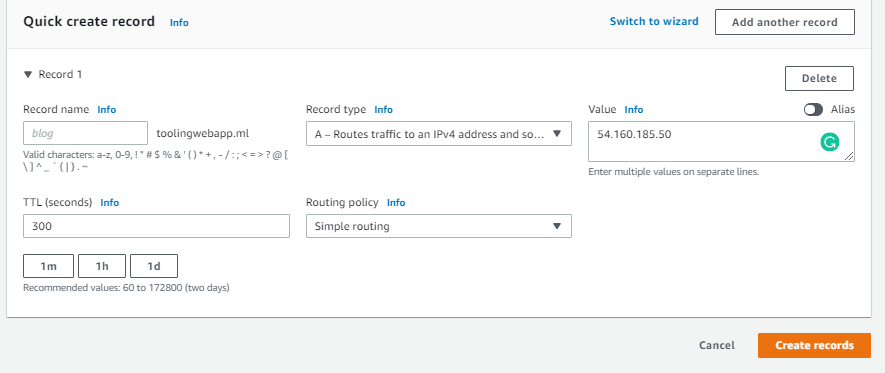
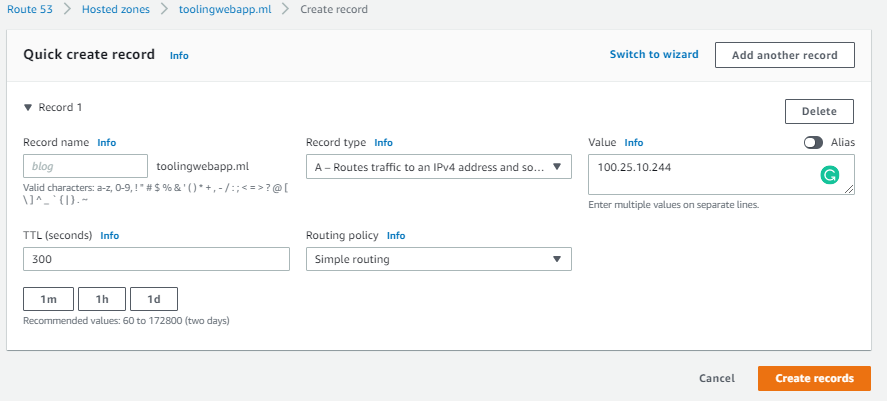
updated project 10 added SSL/TLS cert.

diff --git a/10.Load_Balancer_solution_with_Nginx_SSL.md b/10.Load_Balancer_solution_with_Nginx_SSL.md
@@ -45,6 +45,19 @@ server {
 
 ![nginx](./img-lb-nginx/img3.png)
 
+Enable Nginx
+
+```bash
+sudo systemctl enable nginx
+```
+
+output
+
+```bash
+Synchronizing state of nginx.service with SysV service script with /lib/systemd/systemd-sysv-install.
+Executing: /lib/systemd/systemd-sysv-install enable nginx
+```
+
 Restart nginx and check status
 
 ```bash
@@ -69,18 +82,7 @@ Jul 12 14:02:05 ip-172-31-4-110 systemd[1]: Starting A high performance web serv
 Jul 12 14:02:05 ip-172-31-4-110 systemd[1]: Started A high performance web server and a reverse proxy server.
 ```
 
-Enable Nginx
 
-```bash
-sudo systemctl enable nginx
-```
-
-output
-
-```bash
-Synchronizing state of nginx.service with SysV service script with /lib/systemd/systemd-sysv-install.
-Executing: /lib/systemd/systemd-sysv-install enable nginx
-```
 
 <!-- We can learn more on HTTP load balancing [here](https://docs.nginx.com/nginx/admin-guide/load-balancer/http-load-balancer/) -->
 
@@ -116,7 +118,7 @@ Now our free domain now is now connected to AWS Route53!.
 Next we create `A record` on AWS Route53
 
 click on create record
-![route53](./img-lb-nginx/img10.png)
+![route53](./img-lb-nginx/img6.png)
 
 Here, our A record will be pointing to the nginx loadbalancer server.  
 
@@ -128,21 +130,21 @@ Add `www` and Public IP
 
 ![route53](./img-lb-nginx/img13.png)
 
-Back to our Nginx server, edit `load_balancer.conf`
+Back to our Nginx server, create and edit `load_balancer.conf`
 
 `sudo nano /etc/nginx/sites-available/load_balancer.conf`
 
 ```bash
  upstream web {
-    server 34.207.189.10;
-    server 54.82.180.24;
+    server 100.25.118.163;
+    server 34.207.222.114;
   }
 
 server {
     listen 80;
     server_name toolingwebapp.ml www.toolingwebapp.ml;
     location / {
-      proxy_set_header x-Forwarded-For $proxy_add_x_forwarded_for;
+      proxy_set_header X-Forwarded-For $proxy_add_x_forwarded_for;
       proxy_pass http://web;
     }
   }
@@ -155,16 +157,9 @@ sudo rm -f /etc/nginx/sites-enabled/default
 
 Next check if nginx is configured properly
 
-We remove ...
-
-```bash
-sudorm -f /etc/nginx/sites-enabled/default
-```
-
 ```bash
 sudo nginx -t
 ```
-
 output
 ```bash
 nginx: the configuration file /etc/nginx/nginx.conf syntax is ok
@@ -176,7 +171,6 @@ Next cd to sites-enabled , it is now empty since we removed it above
 ```bash
 cd /etc/nginx/sites-enabled/
 ```
-
 
 Now we need to link our load balancer config file we created in our sites available to our site enabled. This will aloow nginx to access our configuration.
 
@@ -191,7 +185,7 @@ ubuntu@ip-172-31-4-110:/etc/nginx/sites-enabled$ sudo ln -s ../sites-available/l
 ubuntu@ip-172-31-4-110:/etc/nginx/sites-enabled$ ls
 load_balancer.conf
 ```
-Checking to see if it is linked.
+<!-- Checking to see if it is linked.
 ```bash
 ubuntu@ip-172-31-4-110:/etc/nginx/sites-enabled$ ll
 total 8
@@ -199,10 +193,176 @@ drwxr-xr-x 2 root root 4096 Jul 12 19:53 ./
 drwxr-xr-x 8 root root 4096 Jul 12 19:25 ../
 lrwxrwxrwx 1 root root   37 Jul 12 19:53 load_balancer.conf -> ../sites-available/load_balancer.conf
 ubuntu@ip-172-31-4-110:/etc/nginx/sites-enabled$
-```
+``` -->
 
 Reload nginx
 
 ```bash
 sudo systemctl reload nginx
 ```
+
+Now if we go to our domain name that we registered, it shoudl redirect us to our webserver tooling web app.
+
+![route53](./img-lb-nginx/img14.png)
+
+Since we are using `http`i si not secure inother to secure it we will install `certbot` and request SSL/TLS certificate.
+
+Install certbot 
+
+```bash
+sudo apt install certbot -y
+```
+
+We install Certbot(https://pypi.org/project/certbot/) a free encryption service that helps us to secure our connection . Certbot is an easy to use client that fetches a certificate from Let's Encrypt.
+
+```bash
+sudo apt install python3-certbot-nginx -y
+```
+We check syntx and reload nginx
+
+```bash
+sudo nginx -t && sudo nginx -s reload
+```
+
+output
+
+```bash
+nginx: the configuration file /etc/nginx/nginx.conf syntax is ok
+nginx: configuration file /etc/nginx/nginx.conf test is successful
+```
+Next, we create a certificate for our domain `toolingwebapp.ml` to make it secured.
+
+```bash
+sudo certbot --nginx -d toolingwebapp.ml -d www.toolingwebapp.ml
+```
+
+output
+
+```bash
+Saving debug log to /var/log/letsencrypt/letsencrypt.log
+Plugins selected: Authenticator nginx, Installer nginx
+Enter email address (used for urgent renewal and security notices) (Enter 'c' to
+cancel): singularbits@gmail.com
+
+- - - - - - - - - - - - - - - - - - - - - - - - - - - - - - - - - - - - - - - -
+Please read the Terms of Service at
+https://letsencrypt.org/documents/LE-SA-v1.2-November-15-2017.pdf. You must
+agree in order to register with the ACME server at
+https://acme-v02.api.letsencrypt.org/directory
+- - - - - - - - - - - - - - - - - - - - - - - - - - - - - - - - - - - - - - - -
+(A)gree/(C)ancel: A
+
+- - - - - - - - - - - - - - - - - - - - - - - - - - - - - - - - - - - - - - - -
+Would you be willing to share your email address with the Electronic Frontier
+Foundation, a founding partner of the Let's Encrypt project and the non-profit
+organization that develops Certbot? We'd like to send you email about our work
+encrypting the web, EFF news, campaigns, and ways to support digital freedom.
+- - - - - - - - - - - - - - - - - - - - - - - - - - - - - - - - - - - - - - - -
+(Y)es/(N)o: Y
+Obtaining a new certificate
+Performing the following challenges:
+http-01 challenge for toolingwebapp.ml
+http-01 challenge for www.toolingwebapp.ml
+Waiting for verification...
+Cleaning up challenges
+Deploying Certificate to VirtualHost /etc/nginx/sites-enabled/load_balancer.conf
+Deploying Certificate to VirtualHost /etc/nginx/sites-enabled/load_balancer.conf
+
+Please choose whether or not to redirect HTTP traffic to HTTPS, removing HTTP access.
+- - - - - - - - - - - - - - - - - - - - - - - - - - - - - - - - - - - - - - - -
+1: No redirect - Make no further changes to the webserver configuration.
+2: Redirect - Make all requests redirect to secure HTTPS access. Choose this for
+new sites, or if you're confident your site works on HTTPS. You can undo this
+change by editing your web server's configuration.
+- - - - - - - - - - - - - - - - - - - - - - - - - - - - - - - - - - - - - - - -
+Select the appropriate number [1-2] then [enter] (press 'c' to cancel): 2
+Redirecting all traffic on port 80 to ssl in /etc/nginx/sites-enabled/load_balancer.conf
+Redirecting all traffic on port 80 to ssl in /etc/nginx/sites-enabled/load_balancer.conf
+
+- - - - - - - - - - - - - - - - - - - - - - - - - - - - - - - - - - - - - - - -
+Congratulations! You have successfully enabled https://toolingwebapp.ml and
+https://www.toolingwebapp.ml
+
+You should test your configuration at:
+https://www.ssllabs.com/ssltest/analyze.html?d=toolingwebapp.ml
+https://www.ssllabs.com/ssltest/analyze.html?d=www.toolingwebapp.ml
+- - - - - - - - - - - - - - - - - - - - - - - - - - - - - - - - - - - - - - - -
+
+IMPORTANT NOTES:
+ - Congratulations! Your certificate and chain have been saved at:
+   /etc/letsencrypt/live/toolingwebapp.ml/fullchain.pem
+   Your key file has been saved at:
+   /etc/letsencrypt/live/toolingwebapp.ml/privkey.pem
+   Your cert will expire on 2021-10-12. To obtain a new or tweaked
+   version of this certificate in the future, simply run certbot again
+   with the "certonly" option. To non-interactively renew *all* of
+   your certificates, run "certbot renew"
+ - Your account credentials have been saved in your Certbot
+   configuration directory at /etc/letsencrypt. You should make a
+   secure backup of this folder now. This configuration directory will
+   also contain certificates and private keys obtained by Certbot so
+   making regular backups of this folder is ideal.
+ - If you like Certbot, please consider supporting our work by:
+
+   Donating to ISRG / Let's Encrypt:   https://letsencrypt.org/donate
+   Donating to EFF:                    https://eff.org/donate-le
+
+```
+
+![route53](./img-lb-nginx/img15.png)
+
+![route53](./img-lb-nginx/img16.png)
+
+Next, we setup periodic renewal of our SSL/TLS certificate as its valid for 90 days . It is recommended we renew every 60days. We will use the command below to schdule a renewal 
+
+```bash
+crontab -e
+```
+```bash
+* */12 * * *   root /usr/bin/certbot renew > /dev/null 2>&1
+```
+
+![route53](./img-lb-nginx/img17.png).
+
+Congratulations we succesfully implemented Nginx Load Balancing web solution with secured HTTPS with periodic updated SSL/TLS certificate!.
+
+
+
+
+
+
+<!-- First we make sure `snapd` is running.
+
+```bash
+sudo systemctl status snapd
+```
+
+output
+
+```bash
+● snapd.service - Snap Daemon
+     Loaded: loaded (/lib/systemd/system/snapd.service; enabled; vendor preset: enabled)
+     Active: active (running) since Wed 2021-07-14 12:29:17 UTC; 56min ago
+TriggeredBy: ● snapd.socket
+   Main PID: 491 (snapd)
+      Tasks: 11 (limit: 1160)
+     Memory: 70.0M
+     CGroup: /system.slice/snapd.service
+             └─491 /usr/lib/snapd/snapd
+
+Jul 14 12:29:15 ip-172-31-55-207 systemd[1]: Starting Snap Daemon...
+Jul 14 12:29:16 ip-172-31-55-207 snapd[491]: AppArmor status: apparmor is enabled and all features are >
+Jul 14 12:29:17 ip-172-31-55-207 snapd[491]: AppArmor status: apparmor is enabled and all features are >
+Jul 14 12:29:17 ip-172-31-55-207 snapd[491]: patch.go:64: Patching system state level 6 to sublevel 1...
+Jul 14 12:29:17 ip-172-31-55-207 snapd[491]: patch.go:64: Patching system state level 6 to sublevel 2...
+Jul 14 12:29:17 ip-172-31-55-207 snapd[491]: patch.go:64: Patching system state level 6 to sublevel 3...
+Jul 14 12:29:17 ip-172-31-55-207 snapd[491]: daemon.go:347: started snapd/2.49.2 (series 16; classic) u>
+Jul 14 12:29:17 ip-172-31-55-207 snapd[491]: daemon.go:440: adjusting startup timeout by 50s (pessimist>
+Jul 14 12:29:17 ip-172-31-55-207 systemd[1]: Started Snap Daemon.
+```
+
+Install certbot
+
+```bash
+sudo snap install --classic certbot
+``` -->
